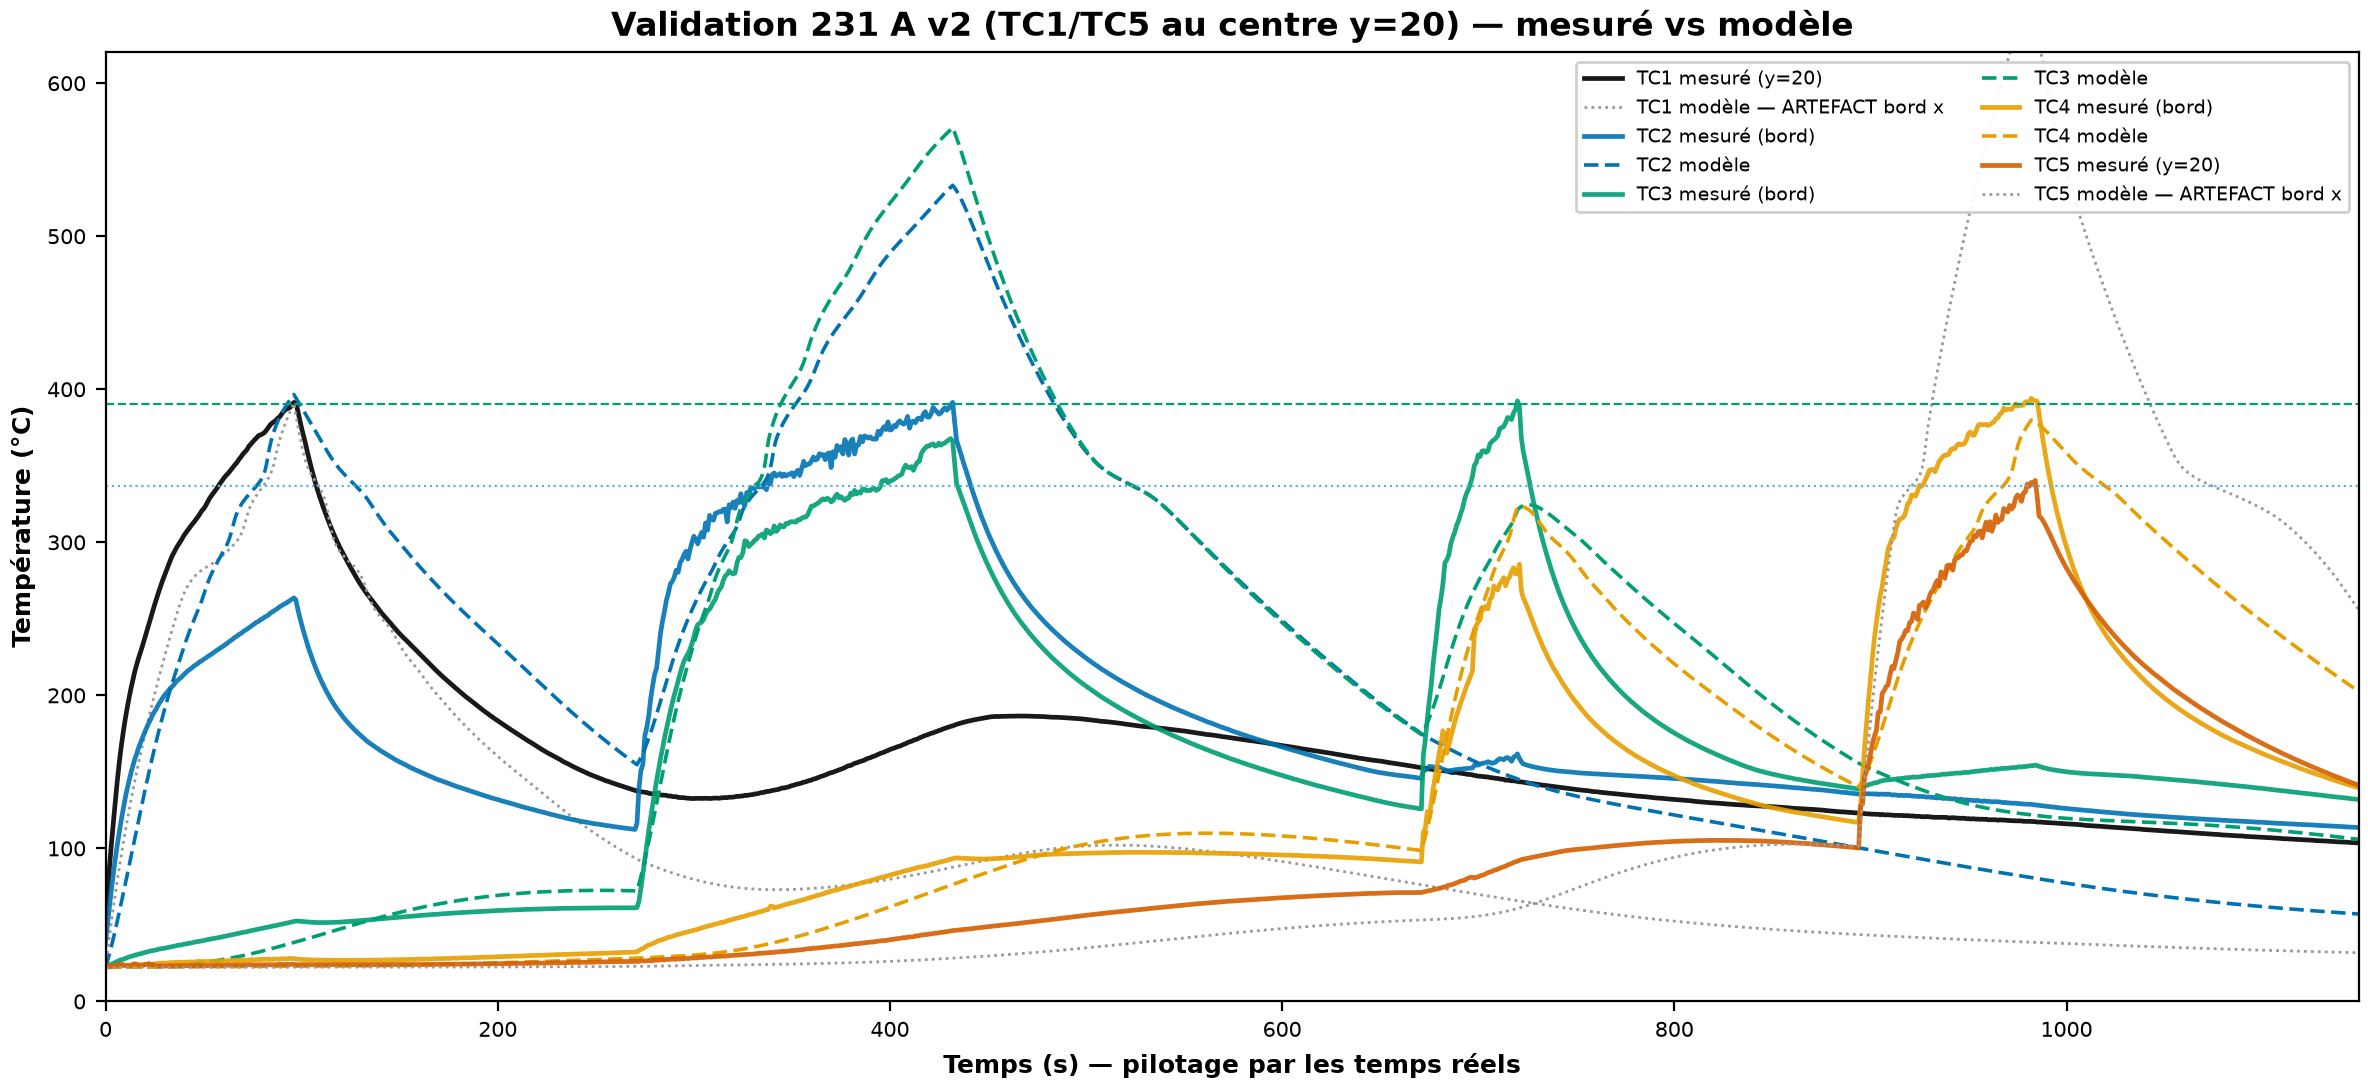
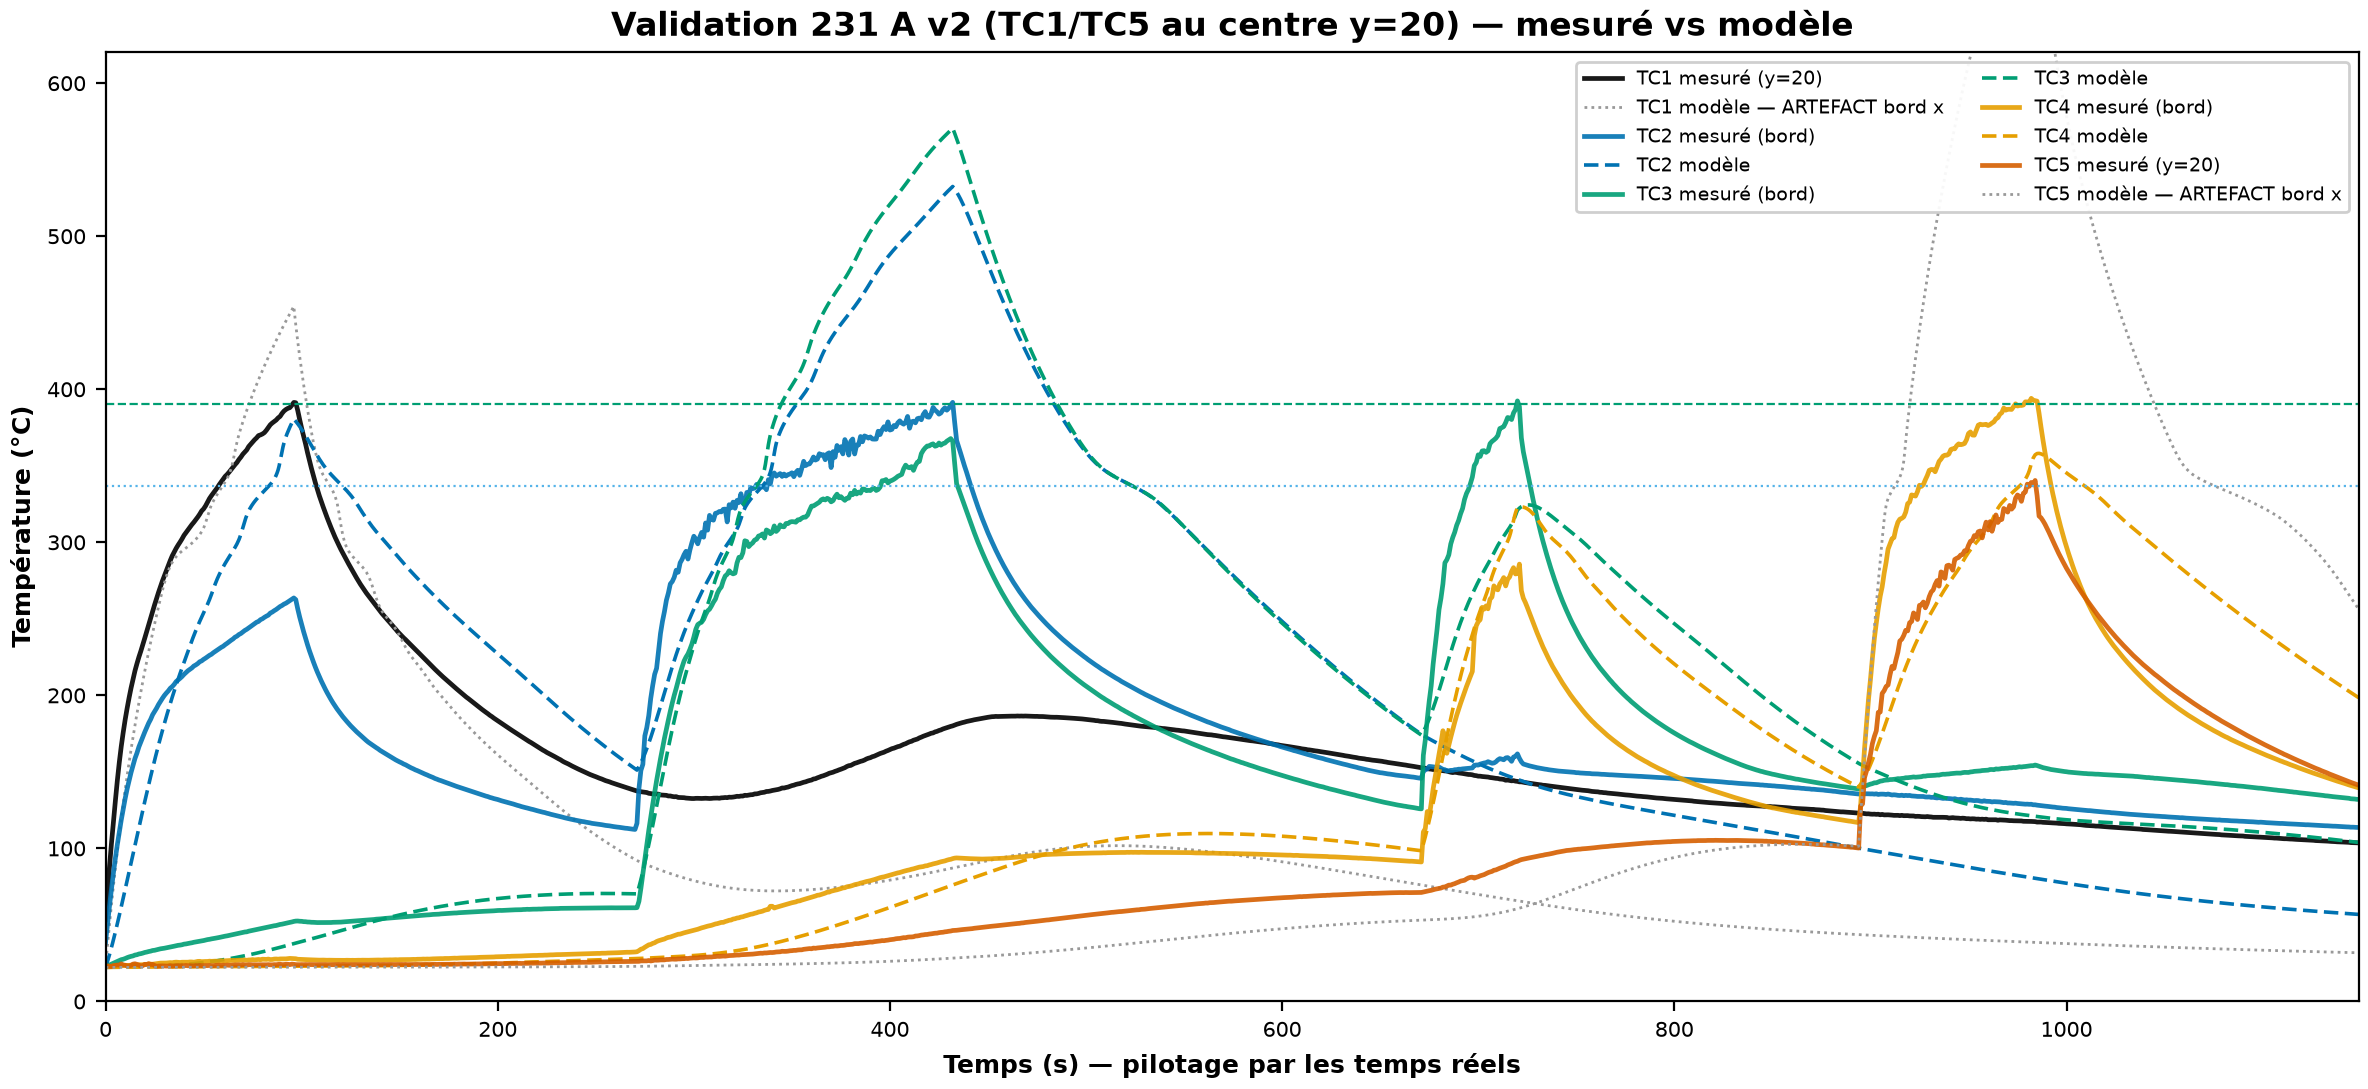
fig(v2): fig_compare_231A_v2 en source CANONIQUE (avant correction) pour l'etape 6 de la synthese
Cette figure illustre l'artefact de bord x AVANT correction (TC5 modele ~754 vs reel 340).
Force lambda_bord_x_mm=0.0 explicitement (la correction default-ON est montree ailleurs,
gen_compare_231A_v2_corrige). Coherent avec le recit chronologique de l'issue de synthese.

Claude-Session: https://claude.ai/code/session_01QZzipzAgTptsrd6bPwoLWd

diff --git a/code/scripts/gen/gen_compare_231A_v2.py b/code/scripts/gen/gen_compare_231A_v2.py
@@ -49,6 +49,14 @@ gaps = [starts[i + 1] - (starts[i] + dwells[i]) for i in range(3)] + [float(t[-1
 print("fenêtres v2 :", [f"P{i+1} dwell={dwells[i]:.0f} gap={gaps[i]:.0f}" for i in range(4)])
 
 E = g.construire_essai(231.0)
+# Cette figure illustre l'artefact de bord x AVANT correction (récit chronologique) :
+# on force la source CANONIQUE (lambda_bord_x_mm=0.0) même si la correction est active
+# par défaut ailleurs. La correction (OFF vs ON) est montrée par gen_compare_231A_v2_corrige.py.
+from jumeau.em.source_joule import source_spot  # noqa: E402
+E._Q_spots = [source_spot(E.grille, g.cfg, E.couches, 231.0, float(s["centre_x"]),
+                          facteur_couplage=g.FACTEUR, decalage_x=0.0, lambda_bord_x_mm=0.0)
+              for s in E.spots]
+E._P_spots_2d = [q.sum(axis=2) * E.grille.dz for q in E._Q_spots]
 GR, MAT, CONTACT = E.grille, E.cfg.materiau, E.cfg.contact
 amb = copy.deepcopy(E.cfg.ambiant); amb.T_amb = AMB
 field = np.full(GR.nx * GR.ny, AMB)
